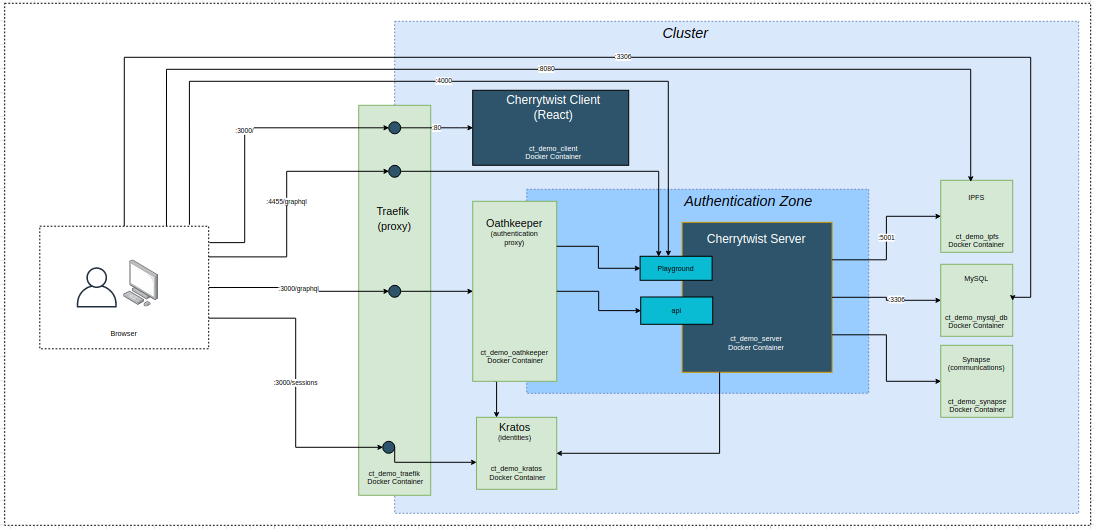
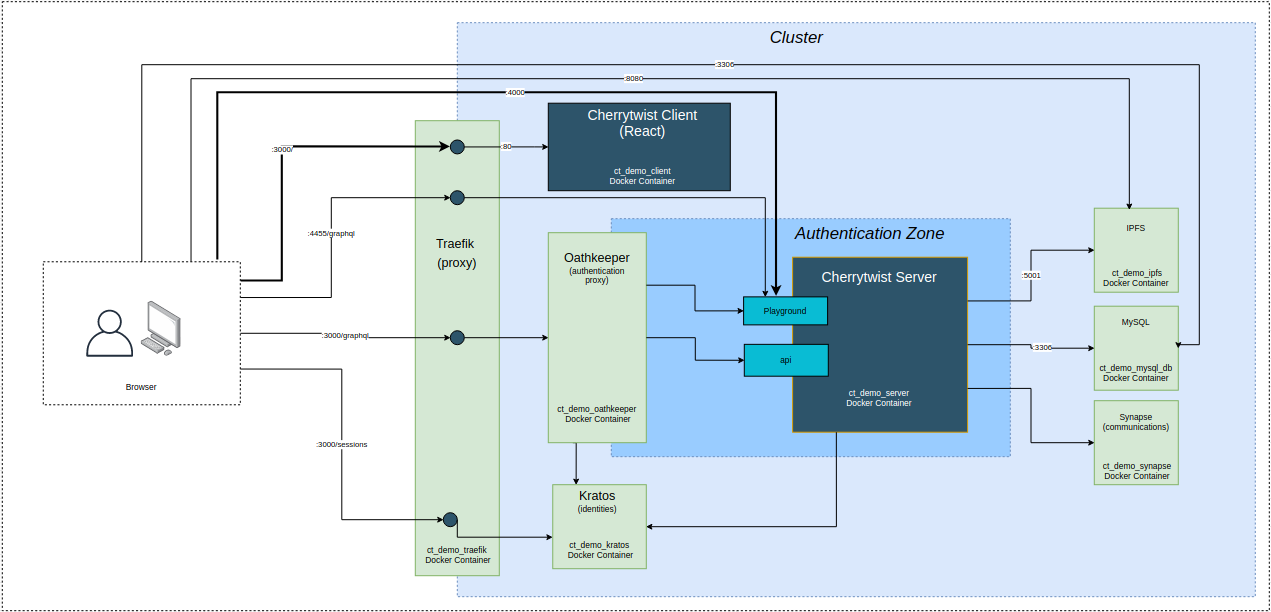
updated documentation for demo repo; started moving more of the traffic through traefik; renamed demo file

diff --git a/src/actions/sample-data.ts b/src/actions/sample-data.ts
@@ -15,7 +15,7 @@ export const sampleData = async () => {
 
   const server = process.env.CT_SERVER || 'http://localhost:4000/graphql';
   const dataTemplate =
-    process.env.CT_DATA_TEMPLATE || '../ct-sdgs.ods';
+    process.env.CT_DATA_TEMPLATE || '../ct-sample-data.ods';
   const authInfo = await getAuthInfo();
   const ctClient = new CherrytwistClient({
     graphqlEndpoint: server,

diff --git a/README.md b/README.md
@@ -12,15 +12,18 @@ The core pieces of the demo are:
 
 - **[Server](http://github.com/cherrytwist/server)**: The core Cherrytwist server that maintains the Ecoverse, and that exposes a GraphQL based api
 - **[Client-Web](http://github.com/cherrytwist/client-web)**: Web front end that interfaces with the Cherrytwist Server
+- **Oathkeeper, Kratos**: Provide authentication and identity management services that are used by the server
+- **Traefik**: Used to create a single overview of all routes into the cluster
+- **Other**: services such as mysql, ipfs, synapse (matrix) that are used to provide the server functionality
 
 <p >
 <img src="docs/images/docker-compose.png" alt="Docker compose cluster" width="600" />
 </p>
 
 ### Interaction
-As shown by the above diagram, you can then intereact in two ways with the demo:
-* **Cherrytwist Web Client**: open a local browser and navigate to [http://localhost:3000](http://localhost:3000), where you can see the Challenges that are hosted
-* **Cherrytwist Server API**: open a local browser and navigate to [http://localhost:4000/graphql](http://localhost:4000/graphql), where you can interact directly with the data representing the Challenges
+As shown by the bold arrows on the above diagram, you can then intereact in two primary ways with the demo:
+* **Cherrytwist Web Client**: open a local browser and navigate to [http://localhost:3000](http://localhost:3000). This will direct you to the client so you can browse the contents of the platform.
+* **Cherrytwist Server API**: open a local browser and navigate to [http://localhost:4000/graphql](http://localhost:4000/graphql), where you can interact directly with the data representing the Challenges via direct access to the graphql api on the server.
 
 ## Software Setup
 
@@ -33,9 +36,10 @@ Prerequisites:
 The following commands are used to run this project:
 
 * **Create the cluster**: Execute `docker-compose --env-file .env.docker up --build --force-recreate`
-  * This creates the docker cluster with the containers connected to each other
+  * This creates the docker cluster with the containers connected to each other.
 * **Verify the server is running**: Open a browser and navigate to [http://localhost:4000/graphql](http://localhost:4000/graphql)
-  * Note: the first time the cluster starts up it has some installations to make, so it may take up to 5 minutes before the Cherrytwist Server is running. To monitor how the containers are starting up either use a tool like Docker Desktop (windows) or Portainer (any operating system).
+
+Note: the first time the cluster starts up it has some installations to make, so it may take up to 5 minutes before the Cherrytwist Server is running. To monitor how the containers are starting up either use a tool like Docker Desktop (windows) or Portainer (any operating system).
 
 At this point you hopefully will have a running empty ecoverse! Both client and server are exposed locally and can be accessed as [per description](#Interaction) above.
 
@@ -49,11 +53,9 @@ At this point you hopefully have a populated Ecoverse, with Challenges / sample 
 
 ## Authentication
 
-For ease of getting started, the demo is setup with authentication **disabled**. To enable authentication set the `AUTH_ENABLED` environment variable to true in `.env.default` and re-create the docker compose cluster as described above.
+For ease of getting started, the demo is setup with authentication **disabled**. To enable authentication set the `AUTH_ENABLED` environment variable to true in `.env.docker` and re-create the docker compose cluster as described above.
 
-The demo does provide a non-production Authentication Provider, `Demo Authentication Provider`, that allows the registration of new user accounts and to login.
-
-The default administrator login is admin@cherrytwist.org / cherrytwist if you wish to also explore the adminstration capabilities of the platform.
+The default administrator login is admin@cherrytwist.org. If you register using that email address you will be able to explore the adminstration capabilities of the platform.
 
 ## Interacting with the Cherrytwist api
 If you are interested in seeing the data that is held within the Cherrytwist platform, then it is advisable to try out directly querying data from the GraphQL api.
@@ -63,7 +65,7 @@ For this, open a local browser and navigate to [http://localhost:4000/graphql](h
 A simple graphql query to try out is:
 ```
 query {
-  ecoverse {
+  ecoverses {
     name,
     context {
      tagline
@@ -82,9 +84,9 @@ Full details of the api can be found on the docs and schema tabs on the right ha
 
 
 ## Custom Data
-The sample data that is loaded is from the ```cherrytwist-sample-data.ods``` file in this repository. This is a spreadsheet, that can be opened in Excel or compatible tools.
+The sample data that is loaded is from the ```ct-sample-data.ods``` file in this repository. This is a spreadsheet, that can be opened in Excel or compatible tools.
 
-To modify the data and see how Cherrytwist coudl be used for hosting your Challenges, you can get a first impression by modifying this file.
+To modify the data and see how Cherrytwist could be used for hosting your Challenges, you can get a first impression by modifying this file.
 
 Note: the file to be loaded is specfied by the *CT_DATA_TEMPLATE* environment variable. This is set in the ```.env``` that you created above, so you can also specify a different file name by editing this environment variable.
 
